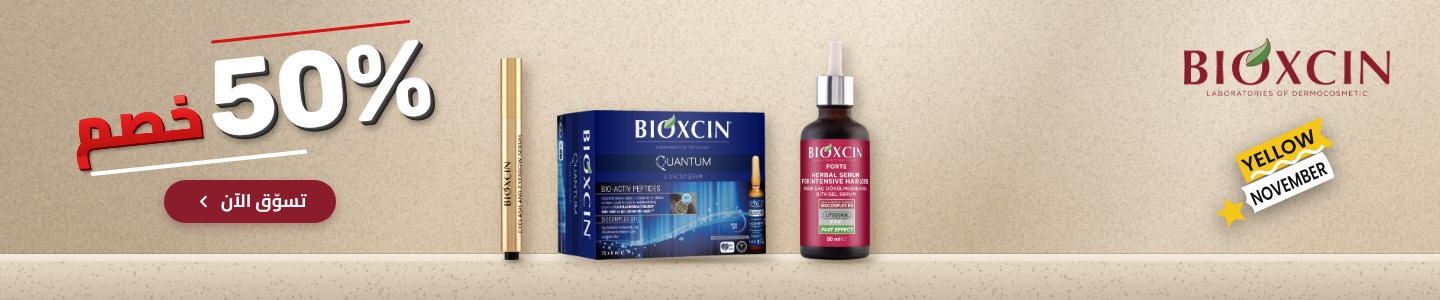
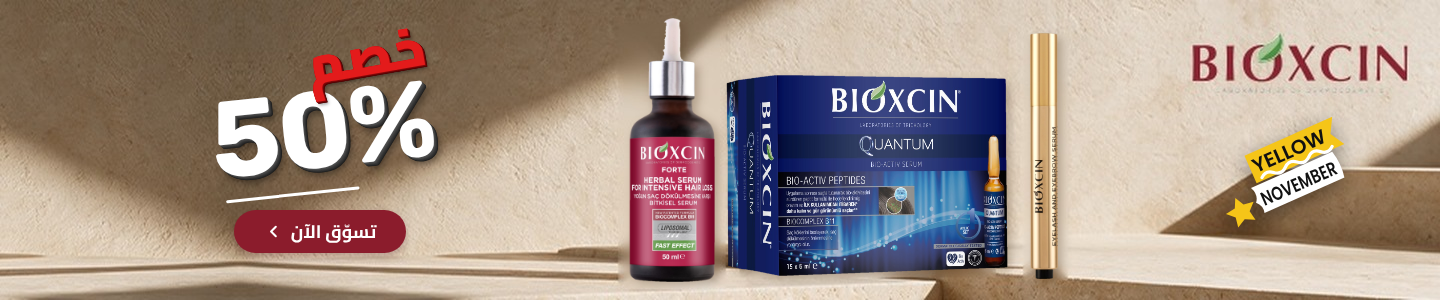
Offer 3 wide: original photo background with products re-placed crisply; Arabic خصم stacked above 50%
Claude-Session: https://claude.ai/code/session_01MejyVmSq2aYVYmituLqweB

diff --git a/banners/banners.js b/banners/banners.js
@@ -310,26 +310,38 @@ function word3d(t, cls) {
   return `<span class="w3d ${cls}" data-t="${esc(t)}">${esc(t)}</span>`;
 }
 
+// Offer-3 wide banners: scale/offset of the original photo inside each banner (see make-wide-bg.py).
+const STUDIO_GEO = {
+  "mobile-slim": { k: 1, ox: 0, oy: 0 },
+  "desktop-hero": { k: 1.5, ox: 240, oy: 0 },
+  "mobile-hero": { k: 1.25, ox: 0, oy: 70, logo: true },
+};
+
 // "Scene" layout: photo wall, stone ledge, products standing on it, 3D "50% OFF".
 function sceneBannerHTML(offer, size, lang, style) {
   const rtl = lang === "ar";
   const big = `
     <div class="sc-big" dir="ltr">
       <i class="sc-line red"></i>
-      ${rtl ? `${word3d(offer.big.word.ar, "red ar")}${word3d(offer.big.num, "white")}`
+      ${rtl ? `<span class="ar-lock">${word3d(offer.big.word.ar, "red ar")}${word3d(offer.big.num, "white")}</span>`
             : `${word3d(offer.big.num, "white")}${word3d(offer.big.word.en, "red")}`}
       <i class="sc-line white"></i>
     </div>`;
-  if (offer.studio && size.id !== "mobile-vertical-hero") {
-    const prods = offer.products.map((p) =>
-      `<div class="st-p" style="--h:${p.h}"><img src="${esc(p.image)}" alt=""></div>`).join("");
+  if (offer.studio && STUDIO_GEO[size.id]) {
+    const g = STUDIO_GEO[size.id];
+    // product spots in the original 800x200 photo: [centre x, bottom y, height]
+    const spots = [[288, 188, 176], [418, 184, 134], [536, 186, 164]];
+    const prods = offer.products.map((p, i) => {
+      const [cx, by, h] = spots[i];
+      return `<img class="st-abs" src="${esc(p.image)}" alt=""
+        style="left:${g.ox + cx * g.k}px;top:${g.oy + by * g.k}px;height:${h * g.k}px">`;
+    }).join("");
     return `
     <div class="banner scene studio ${offer.id} ${size.id}" dir="${rtl ? "rtl" : "ltr"}" lang="${lang}"
-         data-file="${offer.id}/${size.device}-${lang}-${size.w}x${size.h}.png" style="${style}">
-      <div class="st-wall"></div>
-      <div class="st-ledge"></div>
-      <div class="st-products">${prods}</div>
-      <img class="st-logo" src="products/bioxcin-logo-red.png" alt="BIOXCIN">
+         data-file="${offer.id}/${size.device}-${lang}-${size.w}x${size.h}.png"
+         style="${style};background:url('products/offer3-bg-${size.w}x${size.h}.jpg') 0 0/100% 100%">
+      ${prods}
+      ${g.logo ? `<img class="st-logo" src="products/bioxcin-logo-red.png" alt="BIOXCIN">` : ""}
       ${stickerHTML({ ...offer, stickerBadge: null }, lang)}
       <div class="ph-copy">
         ${big}

diff --git a/banners/banners.css b/banners/banners.css
@@ -703,3 +703,19 @@ img.logo { object-fit: contain; }
   linear-gradient(115deg, rgba(95,70,40,.30) 0%, rgba(95,70,40,.22) 18%, transparent 34%, transparent 58%, rgba(95,70,40,.14) 70%, rgba(255,255,255,.18) 82%, transparent 92%),
   radial-gradient(ellipse 60% 120% at 62% 0%, #f1e6d6, transparent 70%),
   linear-gradient(180deg, #e3d4bf, #d6c3a8); }
+
+/* studio v2: original photo background + products re-drawn on their spots */
+.studio .st-abs { position: absolute; z-index: 2; transform: translate(-50%, -100%); width: auto; filter: drop-shadow(4px 4px 5px rgba(70,45,20,.3)); }
+.studio .st-wall, .studio .st-ledge, .studio .st-products { display: none; }
+/* Arabic lockup: "خصم" sits on top of the right edge of "50%" */
+.ar-lock { display: inline-flex; flex-direction: column; align-items: flex-end; }
+.ar-lock .w3d.red.ar { order: 0; font-size: .5em; margin: 0 .02em -.22em 0; align-self: flex-end; transform: rotate(-4deg); }
+.ar-lock .w3d.white { order: 1; }
+.studio.mobile-slim .ph-copy { left: 14px; width: 236px; top: 16px; gap: 12px; }
+.studio.desktop-hero .ph-copy { left: 60px; width: 520px; top: 34px; gap: 26px; }
+.studio.desktop-hero .bf-sticker { left: 1220px; }
+.studio.desktop-hero .st-logo { display: none; }
+.studio.mobile-hero .ph-copy { left: 10px; width: 290px; top: 92px; gap: 22px; }
+.studio.mobile-hero .bf-sticker { left: 580px; top: 2px; }
+.sc-big:has(.ar-lock) .sc-line.red { top: -.42em; right: 0; width: 62%; }
+.studio.mobile-slim[dir="rtl"] .ph-copy { top: 30px; }

diff --git a/banners/make-wide-bg.py b/banners/make-wide-bg.py
@@ -1,44 +1,21 @@
-"""Builds the wide-banner backgrounds for offer 3 from products/offer3-wide-src.jpg (800x200)."""
+"""Builds offer-3 wide backgrounds from products/offer3-bg-clean.jpg (the supplied
+800x200 photo with its products erased). Products are drawn back on top in HTML at
+the same spots (see STUDIO_GEO in banners.js), so the erased areas stay covered."""
 from pathlib import Path
-from PIL import Image, ImageFilter
+from PIL import Image, ImageOps
 here = Path(__file__).parent
-src = Image.open(here / "products/offer3-wide-src.jpg").convert("RGB")
+src = Image.open(here / "products/offer3-bg-clean.jpg").convert("RGB")
 
-# 800 x 200: as is
-src.save(here / "products/offer3-bg-800x200.jpg", quality=93)
+def build(name, W, H, k, ox, oy):
+    s = src.resize((round(800 * k), round(200 * k)), Image.LANCZOS)
+    c = Image.new("RGB", (W, H))
+    # fill any gap on the left / top with mirrored copies of the photo
+    c.paste(ImageOps.mirror(s), (ox - s.width, oy))
+    c.paste(ImageOps.flip(s), (ox, oy - s.height))
+    c.paste(ImageOps.flip(ImageOps.mirror(s)), (ox - s.width, oy - s.height))
+    c.paste(s, (ox, oy))
+    c.save(here / f"products/offer3-bg-{name}.jpg", quality=93)
 
-# 1440 x 300: scale x1.8, crop vertically
-big = src.resize((1440, 360), Image.LANCZOS)
-big.crop((0, 18, 1440, 318)).save(here / "products/offer3-bg-1440x300.jpg", quality=93)
-
-# 706 x 320: wall from the empty left part, products band on the right, logo top-left
-wall = src.crop((0, 0, 245, 200)).resize((706, 320), Image.LANCZOS)
-band = src.crop((240, 0, 578, 200))          # the three products
-k = 1.3
-band = band.resize((int(band.width * k), int(band.height * k)), Image.LANCZOS)
-mask = Image.new("L", band.size, 255)
-fe = 36
-px = mask.load()
-for y in range(band.height):
-    for x in range(band.width):
-        v = 255
-        if x < fe: v = min(v, int(255 * x / fe))
-        if band.width - 1 - x < fe: v = min(v, int(255 * (band.width - 1 - x) / fe))
-        if y < fe: v = min(v, int(255 * y / fe))
-        px[x, y] = v
-canvas = wall.copy()
-ox, oy = 706 - band.width + 8, 320 - band.height
-canvas.paste(band, (ox, oy), mask)
-logo = src.crop((626, 18, 784, 68))
-lm = Image.new("L", logo.size, 0)
-# keep only the red/dark logo pixels so the wall behind blends in
-lp, mp = logo.load(), lm.load()
-for y in range(logo.height):
-    for x in range(logo.width):
-        r, g, b = lp[x, y]
-        if r - g > 40 or r < 150 or g - r > 10:
-            mp[x, y] = 255
-lm = lm.filter(ImageFilter.MaxFilter(3)).filter(ImageFilter.GaussianBlur(0.8))
-canvas.paste(logo, (20, 18), lm)
-canvas.save(here / "products/offer3-bg-706x320.jpg", quality=93)
-print(band.size, ox, oy)
+build("800x200", 800, 200, 1.0, 0, 0)
+build("1440x300", 1440, 300, 1.5, 240, 0)
+build("706x320", 706, 320, 1.25, 0, 70)
